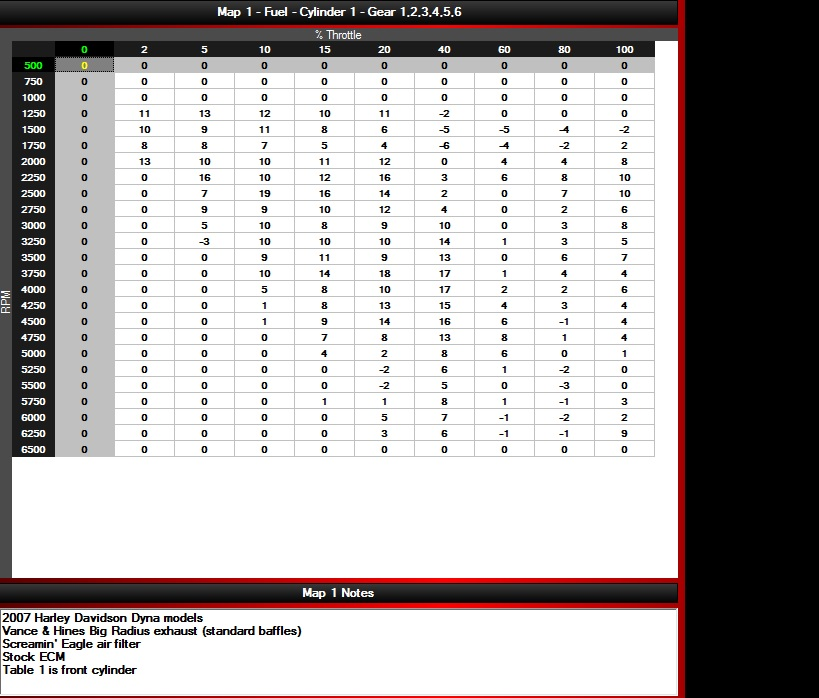
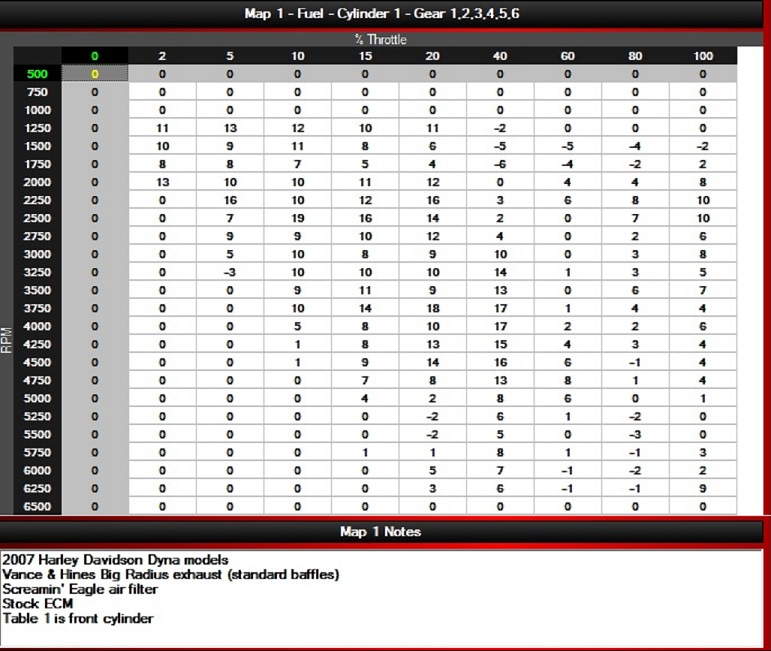
Revision 10
Added more images and updated current images

diff --git a/index.html b/index.html
@@ -441,7 +441,8 @@ grey				<p><img src="images/harleyDavidsonLogo.jpg" height="300px" width="100%">
 		<div data-role="content" style="background-color: black">
 			<p><a href="#pageThree" style="background-color:grey" data-role="button" data-icon="arrow-l"  data-transition="slide" data-iconpos="left">Back</a></p>	
 				<p><img src="images/harleyDavidsonLogo.jpg" height="300px" width="100%"></p>
-				
+				<p><img src="images/2008HD96ciDynaTable1.jpg" height="700px" width="100%"></p>
+				<p><img src="images/2008HD96ciDynaTable2.jpg" height="700px" width="100%"></p>
 		</div>
 		<div data-role="footer" style="background-color:grey">
 			
@@ -454,7 +455,8 @@ grey				<p><img src="images/harleyDavidsonLogo.jpg" height="300px" width="100%">
 		<div data-role="content" style="background-color: black">
 			<p><a href="#pageThree" style="background-color:grey" data-role="button" data-icon="arrow-l"  data-transition="slide" data-iconpos="left">Back</a></p>	
 				<p><img src="images/harleyDavidsonLogo.jpg" height="300px" width="100%"></img></p>
-				
+				<p><img src="images/2008HD96ciDynaTable1.jpg" height="700px" width="100%"></p>
+				<p><img src="images/2008HD96ciDynaTable2.jpg" height="700px" width="100%"></p>
 		</div>
 		<div data-role="footer" style="background-color:grey">
 			
@@ -467,7 +469,8 @@ grey				<p><img src="images/harleyDavidsonLogo.jpg" height="300px" width="100%">
 		<div data-role="content" style="background-color: black">
 			<p><a href="#pageThree" style="background-color:grey" data-role="button" data-icon="arrow-l"  data-transition="slide" data-iconpos="left">Back</a></p>	
 				<p><img src="images/harleyDavidsonLogo.jpg" height="300px" width="100%"></p>
-				
+				<p><img src="images/2008HD96ciDynaTable1.jpg" height="700px" width="100%"></p>
+				<p><img src="images/2008HD96ciDynaTable2.jpg" height="700px" width="100%"></p>
 		</div>
 		<div data-role="footer" style="background-color:grey">
 			
@@ -480,8 +483,9 @@ grey				<p><img src="images/harleyDavidsonLogo.jpg" height="300px" width="100%">
 		<div data-role="content" style="background-color: black">
 			<p><a href="#pageThree" style="background-color:grey" data-role="button" data-icon="arrow-l"  data-transition="slide" data-iconpos="left">Back</a></p>	
 				<p><img src="images/harleyDavidsonLogo.jpg" height="300px" width="100%"></p>
-				
-		<div data-role="footer" style="background-color:grey">
+				<p><img src="images/2008HD96ciDynaTable1.jpg" height="700px" width="100%"></p>
+				<p><img src="images/2008HD96ciDynaTable2.jpg" height="700px" width="100%"></p>
+		
 			
 		</div>
 	</div>
@@ -492,11 +496,10 @@ grey				<p><img src="images/harleyDavidsonLogo.jpg" height="300px" width="100%">
 		<div data-role="content" style="background-color: black">
 			<p><a href="#pageThree" style="background-color:grey" data-role="button" data-icon="arrow-l"  data-transition="slide" data-iconpos="left">Back</a></p>	
 				<p><img src="images/harleyDavidsonLogo.jpg" height="300px" width="100%"></p>
-				
+				<p><img src="images/2008HD96ciDynaTable1.jpg" height="700px" width="100%"></p>
+				<p><img src="images/2008HD96ciDynaTable2.jpg" height="700px" width="100%"></p>
 		</div>
-		<div data-role="footer" style="background-color:grey">
-			
-		</div>
+		
 	</div>
 	
 	<!-- ................ Stop Dyna Section ................... -->
